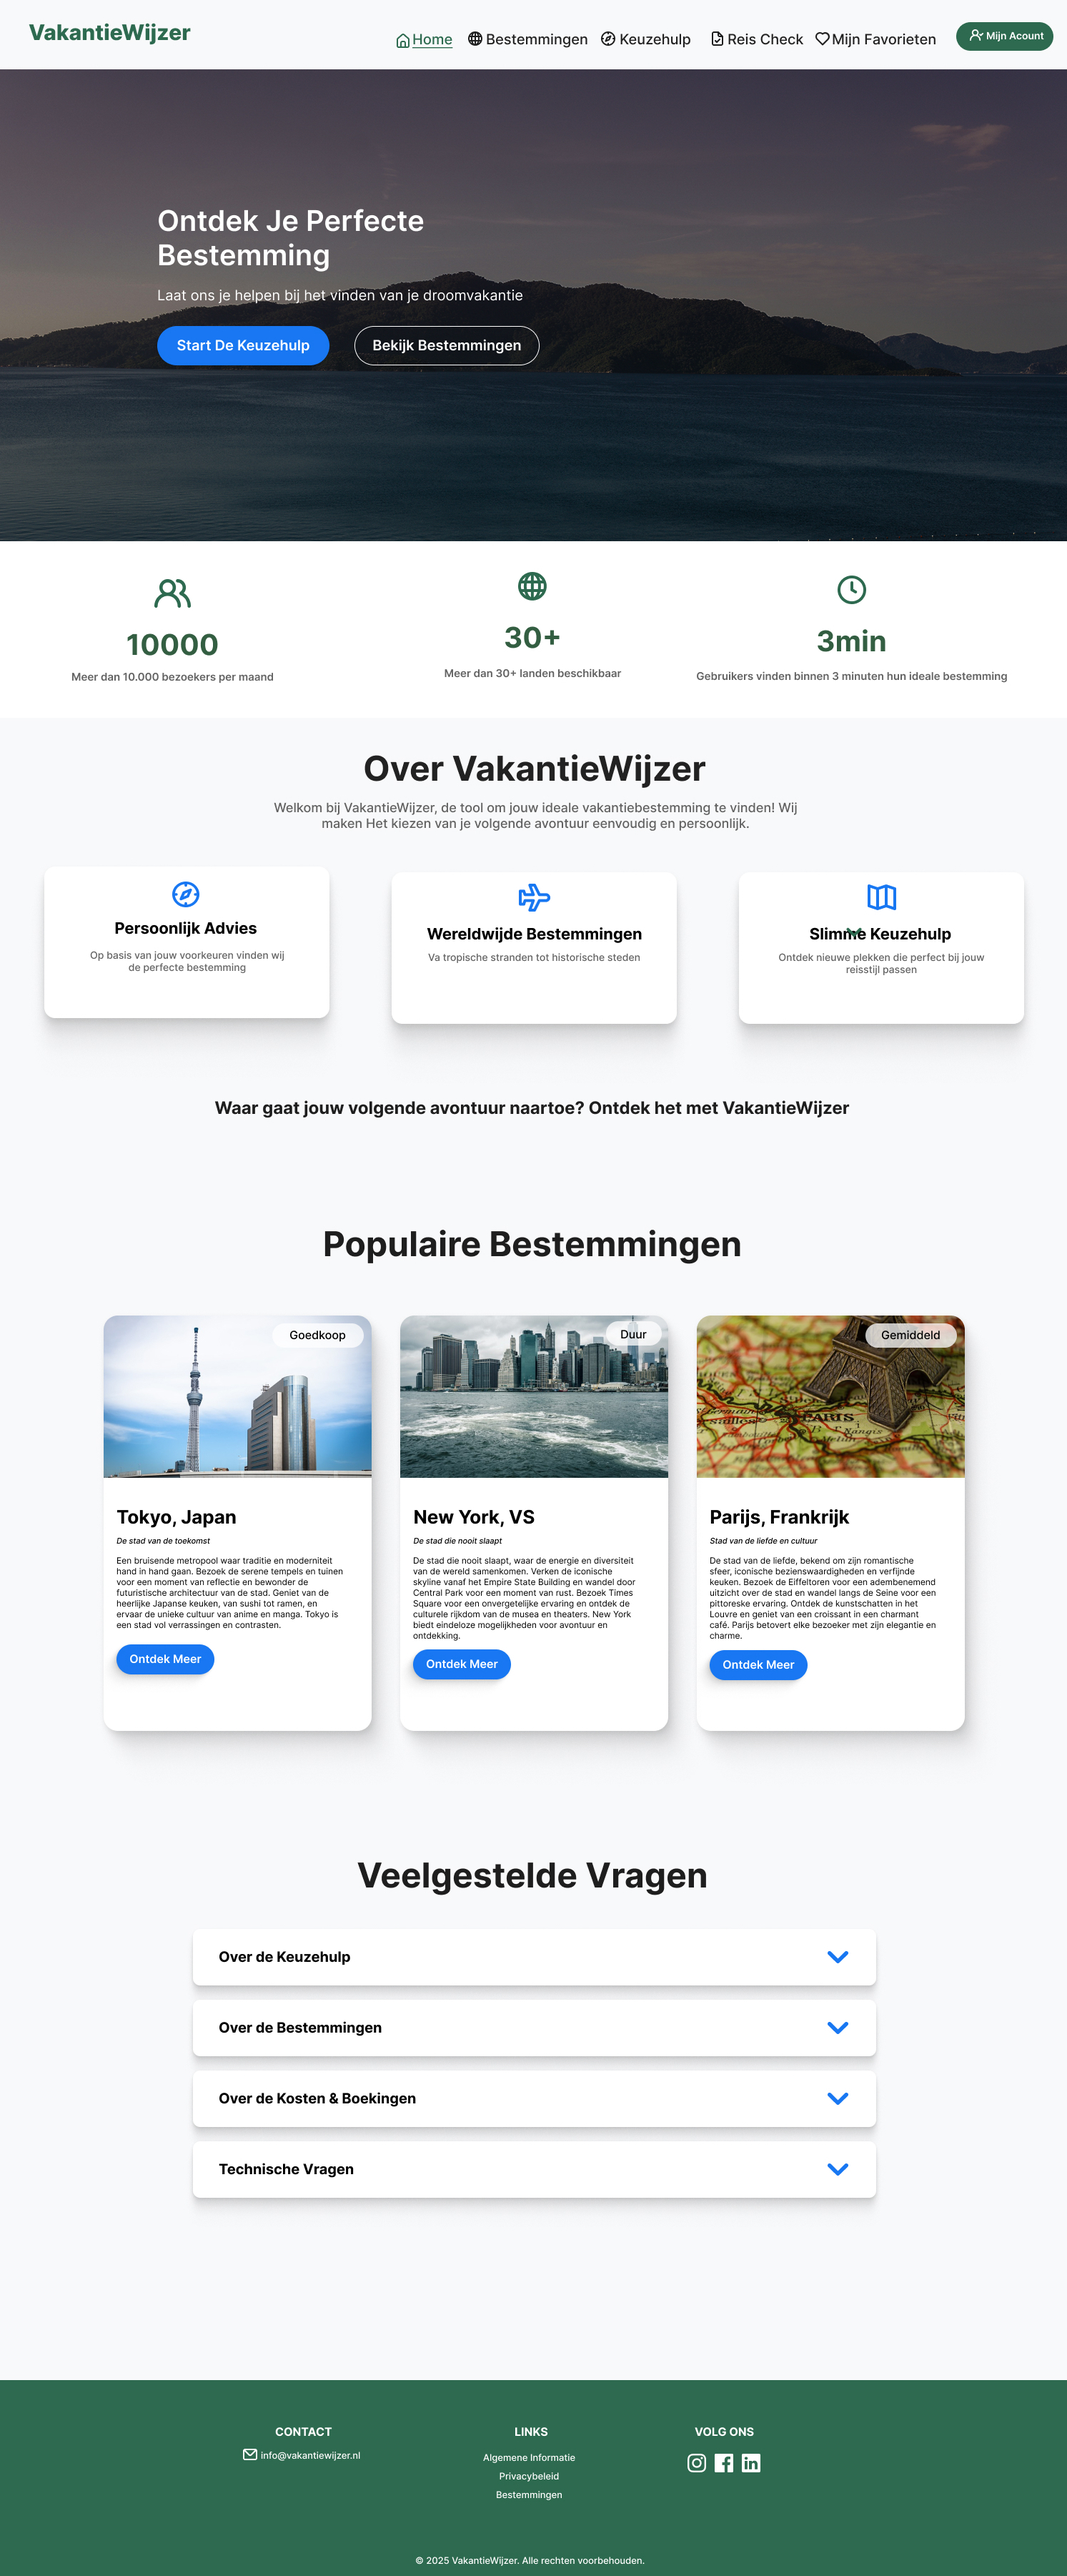
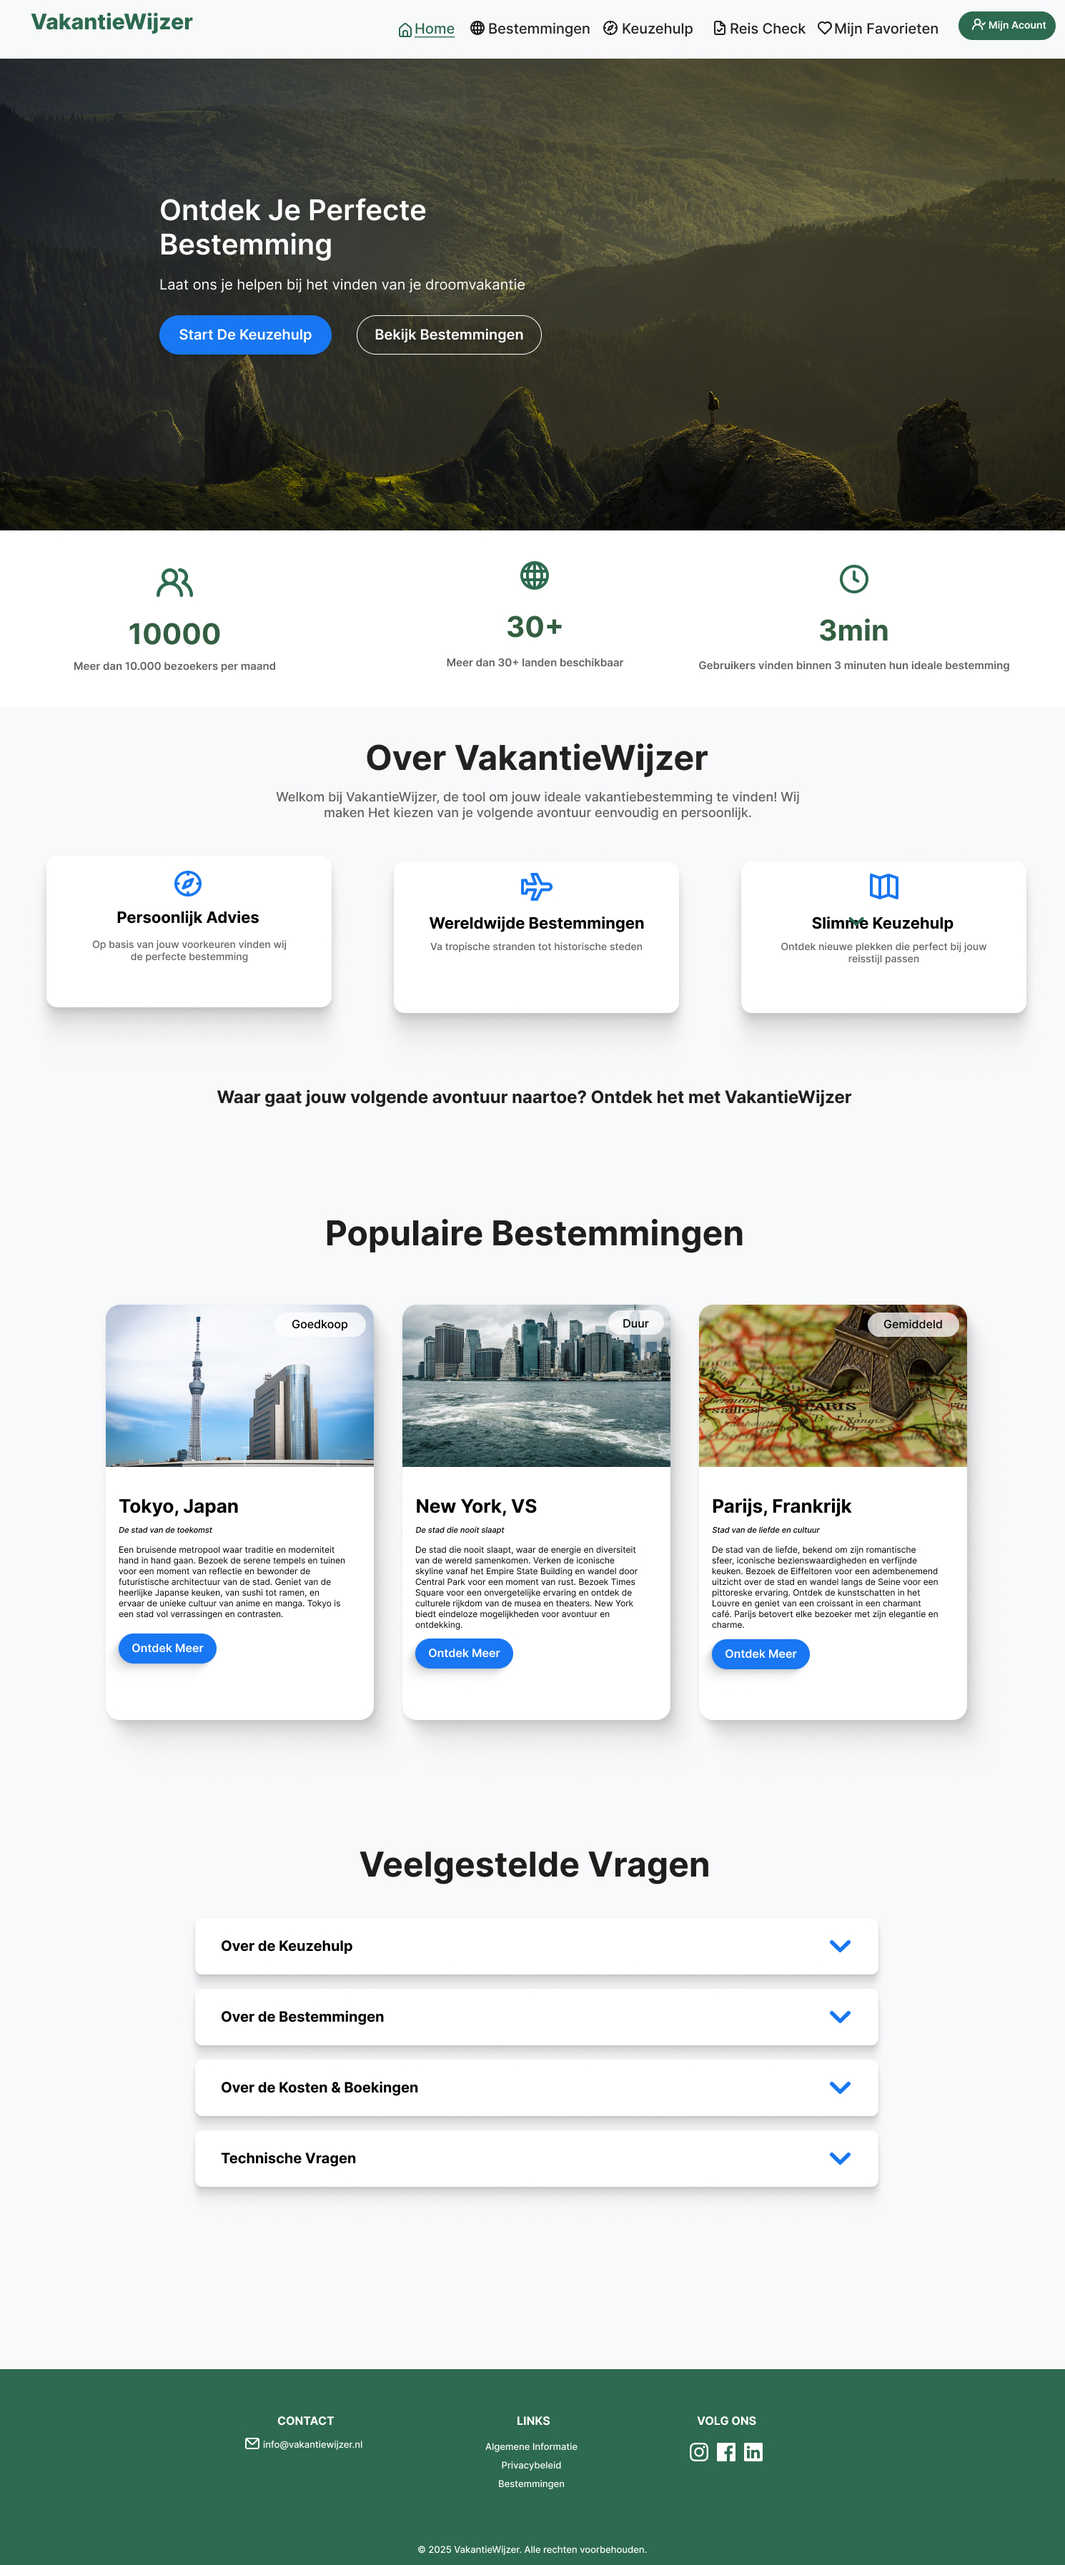
update foto + handleiding

diff --git a/src/pages/notFoundPage/NotFound.jsx b/src/pages/notFoundPage/NotFound.jsx
@@ -7,6 +7,11 @@ import './NotFound.css';
 const NotFound = () => {
   const navigate = useNavigate();
 
+  const handleNavigation = (path) => {
+    window.scrollTo(0, 0);
+    navigate(path);
+  };
+
   return (
     <motion.div 
       className="not-found-container"
@@ -26,7 +31,7 @@ const NotFound = () => {
         
         <motion.button
           className="home-button"
-          onClick={() => navigate('/')}
+          onClick={() => handleNavigation('/')}
           whileHover={{ scale: 1.05 }}
           whileTap={{ scale: 0.95 }}
         >

diff --git a/README.md b/README.md
@@ -11,6 +11,7 @@ VakantieWijzer is een interactieve webapplicatie die je helpt bij het vinden van
   - **Wachtwoord**: minimaal 8 karakters, waarvan:
     - Minimaal 1 hoofdletter
     - Minimaal 1 cijfer
+    - Akkoord gaan met de algemene voorwaarden
 
 ### Belangrijkste functionaliteiten:
 - **Keuzehulp**: Ontdek je perfecte bestemming via een korte vragenlijst
